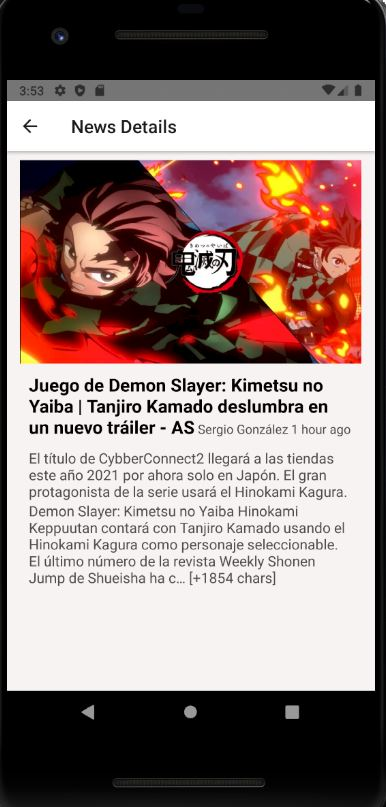
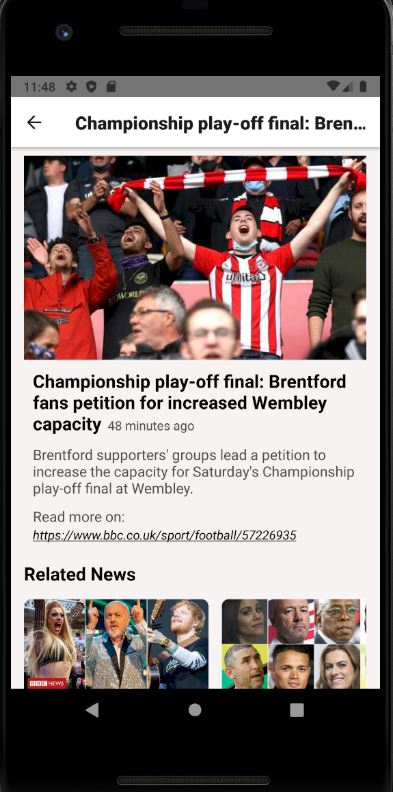
Remove Content, Add news Content Url, Dynamic News Header, Add news Category and display related News

diff --git a/src/store/reducers/newsReducer.js b/src/store/reducers/newsReducer.js
@@ -29,7 +29,7 @@ export const breakingNewsReducer = (state = initialState, action) => {
     case BREAKING_NEWS_SUCCESS:
       return {
         loading: false,
-        newsList: createNewsList(action.payload.articles),
+        newsList: createNewsList(action.payload.articles, 'breaking'),
       };
     case BREAKING_NEWS_FAIL:
       return {...state, loading: false, error: action.payload};
@@ -45,7 +45,7 @@ export const techNewsReducer = (state = initialState, action) => {
     case TECH_NEWS_SUCCESS:
       return {
         loading: false,
-        newsList: createNewsList(action.payload.articles),
+        newsList: createNewsList(action.payload.articles, 'tech'),
       };
     case TECH_NEWS_FAIL:
       return {...state, loading: false, error: action.payload};
@@ -61,7 +61,7 @@ export const healthNewsReducer = (state = initialState, action) => {
     case HEALTH_NEWS_SUCCESS:
       return {
         loading: false,
-        newsList: createNewsList(action.payload.articles),
+        newsList: createNewsList(action.payload.articles, 'health'),
       };
     case HEALTH_NEWS_FAIL:
       return {...state, loading: false, error: action.payload};
@@ -77,7 +77,7 @@ export const entertainmentNewsReducer = (state = initialState, action) => {
     case ENTERTAINMENT_NEWS_SUCCESS:
       return {
         loading: false,
-        newsList: createNewsList(action.payload.articles),
+        newsList: createNewsList(action.payload.articles, 'entertainment'),
       };
     case ENTERTAINMENT_NEWS_FAIL:
       return {...state, loading: false, error: action.payload};
@@ -93,7 +93,7 @@ export const latestNewsReducer = (state = initialState, action) => {
     case LATEST_NEWS_SUCCESS:
       return {
         loading: false,
-        newsList: createNewsList(action.payload.articles),
+        newsList: createNewsList(action.payload.articles, 'latest'),
       };
     case LATEST_NEWS_FAIL:
       return {...state, loading: false, error: action.payload};
@@ -103,7 +103,7 @@ export const latestNewsReducer = (state = initialState, action) => {
 };
 
 // UTILS FUNCTIONS
-function createNewsList(newsList) {
+function createNewsList(newsList, category) {
   let list = [];
   newsList.forEach(n => {
     const newNews = new News(
@@ -115,6 +115,7 @@ function createNewsList(newsList) {
       n.author,
       n.publishedAt,
       n.url,
+      category,
     );
 
     list.push(newNews);

diff --git a/src/components/NewsDetails.js b/src/components/NewsDetails.js
@@ -6,19 +6,40 @@ import {
   Text,
   View,
   Dimensions,
+  TouchableOpacity,
+  Linking,
+  Alert,
 } from 'react-native';
 import {timeDifference} from '../utils/timeDifference';
 
 const {height, width} = Dimensions.get('window');
 
 const NewsDetails = ({news}) => {
-  const {title, urlToImage, description, content, author, publishedAt} = news;
+  const {title, urlToImage, description, content, author, publishedAt, url} =
+    news;
 
   const timeStamp = timeDifference(new Date(), new Date(publishedAt));
 
+  const openUrlHandler = async () => {
+    const supported = await Linking.canOpenURL(url);
+
+    if (supported) {
+      await Linking.openURL(url);
+    } else {
+      Alert.alert(`Don't know how to open this URL: ${url}`);
+    }
+  };
+
   return (
     <ScrollView style={styles.container}>
-      <Image source={{uri: urlToImage}} style={styles.image} />
+      <Image
+        source={
+          urlToImage && urlToImage.length > 5
+            ? {uri: urlToImage}
+            : require('../../assets/defaultNewsImage.jpg')
+        }
+        style={styles.image}
+      />
       <View style={styles.contentContainer}>
         <Text style={styles.title}>
           {title}
@@ -28,7 +49,14 @@ const NewsDetails = ({news}) => {
           </Text>
         </Text>
         <Text style={styles.content}>{description}</Text>
-        <Text style={styles.content}>{content}</Text>
+        <View>
+          <Text style={{...styles.content, marginBottom: 0}}>
+            Read more on:
+          </Text>
+          <TouchableOpacity onPress={openUrlHandler}>
+            <Text style={styles.link}>{url}</Text>
+          </TouchableOpacity>
+        </View>
       </View>
     </ScrollView>
   );
@@ -54,11 +82,19 @@ const styles = StyleSheet.create({
     fontSize: 16,
     fontWeight: 'normal',
     color: '#4e4d4d',
+    marginBottom: 10,
   },
   lightContent: {
     fontSize: 14,
     fontWeight: 'normal',
     color: '#4e4d4d',
+  },
+  link: {
+    color: 'black',
+    textDecorationLine: 'underline',
+    fontStyle: 'italic',
+    fontSize: 14,
+    marginBottom: 10,
   },
 });
 

diff --git a/src/screens/NewsDetailsScreen.js b/src/screens/NewsDetailsScreen.js
@@ -1,13 +1,46 @@
 import React from 'react';
 import NewsDetails from '../components/NewsDetails';
 import Screen from '../components/common/Screen';
+import HorizontalList from '../components/lists/HorizontalList';
+import {useSelector} from 'react-redux';
 
 const NewsDetailsScreen = props => {
-  const news = props.route.params.item;
+  const {item} = props.route.params;
+  const category = item.category;
+
+  const state = useSelector(store => store);
+
+  let newsList = [];
+
+  switch (category) {
+    case 'breaking':
+      newsList = state.breakingNews.newsList;
+      break;
+    case 'tech':
+      newsList = state.techNews.newsList;
+      break;
+    case 'health':
+      newsList = state.healthNews.newsList;
+      break;
+    case 'entertainment':
+      newsList = state.entertainmentNews.newsList;
+      break;
+    case 'latest':
+      newsList = state.latestNews.newsList;
+      break;
+    default:
+      newsList = state.latestNews.newsList;
+      break;
+  }
+
+  console.log(newsList);
+
+  const relatedNews = newsList.filter(n => n.id !== item.id);
 
   return (
     <Screen>
-      <NewsDetails news={news} />
+      <NewsDetails news={item} />
+      <HorizontalList title="Related News" data={relatedNews} />
     </Screen>
   );
 };

diff --git a/src/components/cards/BlockCard.js b/src/components/cards/BlockCard.js
@@ -26,7 +26,14 @@ const BlockCard = ({style, imageStyle, item}) => {
   return (
     <TouchableWithoutFeedback onPress={cardClickHandler}>
       <View style={[styles.container, style]}>
-        <Image source={{uri: urlToImage}} style={[styles.image, imageStyle]} />
+        <Image
+          source={
+            urlToImage && urlToImage.length > 5
+              ? {uri: urlToImage}
+              : require('../../../assets/defaultNewsImage.jpg')
+          }
+          style={[styles.image, imageStyle]}
+        />
         <View style={styles.contentContainer}>
           <Title>{title}</Title>
           <Text style={styles.lightContent}> {timeStamp}</Text>

diff --git a/src/navigation/AppNavigator.js b/src/navigation/AppNavigator.js
@@ -8,7 +8,12 @@ const Stack = createStackNavigator();
 
 const AppNavigator = () => {
   return (
-    <Stack.Navigator>
+    <Stack.Navigator
+      screenOptions={{
+        headerTitleStyle: {
+          fontWeight: 'bold',
+        },
+      }}>
       <Stack.Screen
         name="Home"
         component={HomeScreen}
@@ -17,7 +22,7 @@ const AppNavigator = () => {
       <Stack.Screen
         name="NewsDetails"
         component={NewsDetailsScreen}
-        options={{title: 'News Details'}}
+        options={({route}) => ({title: route.params.item.title})}
       />
     </Stack.Navigator>
   );

diff --git a/src/models/News.js b/src/models/News.js
@@ -8,6 +8,7 @@ class News {
     author,
     publishedAt,
     url,
+    category,
   ) {
     this.id = id;
     this.title = title;
@@ -17,6 +18,7 @@ class News {
     this.author = author;
     this.publishedAt = publishedAt;
     this.url = url;
+    this.category = category;
   }
 }
 

diff --git a/src/screens/HomeScreen.js b/src/screens/HomeScreen.js
@@ -57,7 +57,6 @@ const HomeScreen = props => {
     dispatch(newsActions.getTechNews());
     dispatch(newsActions.getEntertainmentNews());
   }, [dispatch]);
-
   return (
     <Screen>
       <FeaturedNews
